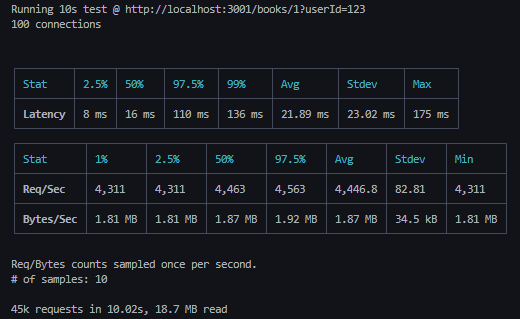
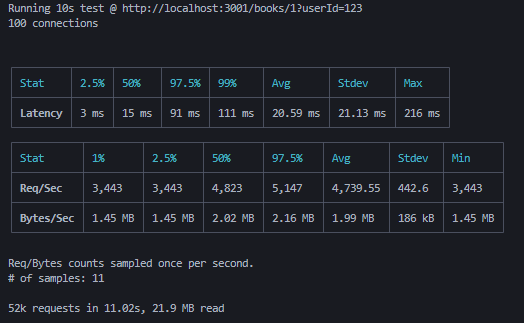
Performance improvements

diff --git a/src/trie.ts b/src/trie.ts
@@ -1,5 +1,5 @@
 type TrieNode<T> = {
-    children: Map<string, TrieNode<T>>;
+    children: Record<string, TrieNode<T>>;
     paramChild?: TrieNode<T>; // for :param
     wildcardChild?: TrieNode<T>; // for *
     paramName?: string;
@@ -11,29 +11,46 @@ export type RouteTrie<T> = {
     insert: (path: string, value: T) => void;
 };
 
+function quickSplit(path: string): string[] {
+    const out = [];
+    let start = 0;
+    for (let i = 0; i < path.length; i++) {
+        if (path[i] === "/") {
+            if (i > start) {
+                out.push(path.slice(start, i));
+            }
+            start = i + 1;
+        }
+    }
+    if (start < path.length) {
+        out.push(path.slice(start));
+    }
+    return out;
+}
+
 export function createRouteTrie<T>(name: string): RouteTrie<T> {
-    const root: TrieNode<T> = { children: new Map() };
+    const root: TrieNode<T> = { children: {} };
 
     function insert(path: string, value: T) {
-        const segments = path.split("/").filter(Boolean);
+        const segments = quickSplit(path);
         let node = root;
 
         for (const segment of segments) {
             if (segment === "*") {
                 if (!node.wildcardChild) {
-                    node.wildcardChild = { children: new Map() };
+                    node.wildcardChild = { children: {} };
                 }
                 node = node.wildcardChild!;
             } else if (segment.startsWith(":")) {
                 if (!node.paramChild) {
-                    node.paramChild = { children: new Map(), paramName: segment.slice(1) };
+                    node.paramChild = { children: {}, paramName: segment.slice(1) };
                 }
                 node = node.paramChild;
             } else {
-                if (!node.children.has(segment)) {
-                    node.children.set(segment, { children: new Map() });
+                if (!node.children[segment]) {
+                    node.children[segment] = { children: {} };
                 }
-                node = node.children.get(segment)!;
+                node = node.children[segment];
             }
         }
         if (node.value !== undefined) {
@@ -42,50 +59,54 @@ export function createRouteTrie<T>(name: string): RouteTrie<T> {
         node.value = value;
     }
 
-    function find(path: string): { value: T; params: Record<string, string> } | undefined {
-        const segments = path.split("/").filter(Boolean);
-        const params: Record<string, string> = {};
-
-        function search(
-            node: TrieNode<T>,
-            idx: number,
-        ): { node: TrieNode<T>; params: Record<string, string> } | undefined {
-            if (idx === segments.length) {
-                if (node.value !== undefined) {
-                    return { node, params: { ...params } };
-                }
-                return undefined;
+    function search(
+        node: TrieNode<T>,
+        idx: number,
+        segments: string[],
+        params: Record<string, string> = {},
+    ): { node: TrieNode<T>; params: Record<string, string> } | undefined {
+        if (idx === segments.length) {
+            if (node.value !== undefined) {
+                return { node, params };
             }
-            const segment = segments[idx];
-
-            // Exact match first
-            if (node.children.has(segment)) {
-                const result = search(node.children.get(segment)!, idx + 1);
-                if (result) {
-                    return result;
-                }
-            }
-
-            // Param match
-            if (node.paramChild) {
-                params[node.paramChild.paramName!] = segment;
-                const result = search(node.paramChild, idx + 1);
-                if (result) return result;
-                delete params[node.paramChild.paramName!]; // backtrack
-            }
-
-            // Wildcard match (matches the rest, attaches to *)
-            if (node.wildcardChild) {
-                params["*"] = segments.slice(idx).join("/");
-                if (node.wildcardChild.value !== undefined) {
-                    return { node: node.wildcardChild, params: { ...params } };
-                }
-            }
-
             return undefined;
         }
+        const segment = segments[idx];
 
-        const found = search(root, 0);
+        // Exact match first
+        if (node.children[segment]) {
+            const result = search(node.children[segment], idx + 1, segments, params);
+            if (result) {
+                return result;
+            }
+        }
+
+        // Param match
+        if (node.paramChild) {
+            params[node.paramChild.paramName!] = segment;
+            const result = search(node.paramChild, idx + 1, segments, params);
+            if (result) {
+                return result;
+            }
+            delete params[node.paramChild.paramName!]; // backtrack
+        }
+
+        // Wildcard match (matches the rest, attaches to *)
+        if (node.wildcardChild) {
+            params["*"] = segments.slice(idx).join("/");
+            if (node.wildcardChild.value !== undefined) {
+                return { node: node.wildcardChild, params };
+            }
+        }
+
+        return undefined;
+    }
+
+    function find(path: string): { value: T; params: Record<string, string> } | undefined {
+        const segments = quickSplit(path);
+        const params: Record<string, string> = {};
+
+        const found = search(root, 0, segments, params);
         if (found) {
             return { value: found.node.value!, params: found.params };
         }

diff --git a/src/handlers/__tests__/logger.handler.test.ts b/src/handlers/__tests__/logger.handler.test.ts
@@ -1,9 +1,16 @@
 import { configureLogger, logRequest, logResponse } from "../logger.handler";
+import { log } from "../../utils/logger.utils";
+
+jest.mock("../../utils/logger.utils", () => ({
+    log: {
+        info: jest.fn(),
+    },
+}));
 
 describe("loggerHandler", () => {
     describe("logRequest", () => {
         it("should log a request", () => {
-            const logSpy = jest.spyOn(console, "log");
+            const logSpy = jest.spyOn(log, "info");
             const request = {
                 path: "test",
                 headers: { "content-type": "application/json" },
@@ -26,7 +33,7 @@ describe("loggerHandler", () => {
                 cookies: { session: "123" },
                 method: "GET",
             };
-            const logSpy = jest.spyOn(console, "log");
+            const logSpy = jest.spyOn(log, "info");
             configureLogger({ enableRequestLogging: false });
             logRequest("test", request);
             expect(logSpy).not.toHaveBeenCalled();
@@ -36,7 +43,7 @@ describe("loggerHandler", () => {
     describe("logResponse", () => {
         it("should log a response", () => {
             const response = { status: 200, body: { message: "big success!" } };
-            const logSpy = jest.spyOn(console, "log");
+            const logSpy = jest.spyOn(log, "info");
             configureLogger({ enableResponseLogging: true });
             logResponse("test", response);
             expect(logSpy).toHaveBeenCalledWith("RESPONSE: test", response);
@@ -44,7 +51,7 @@ describe("loggerHandler", () => {
 
         it("should not log a response if logging is disabled", () => {
             const response = { status: 200, body: { message: "big success!" } };
-            const logSpy = jest.spyOn(console, "log");
+            const logSpy = jest.spyOn(log, "info");
             configureLogger({ enableResponseLogging: false });
             logResponse("test", response);
             expect(logSpy).not.toHaveBeenCalled();

diff --git a/src/handlers/error.handler.ts b/src/handlers/error.handler.ts
@@ -4,12 +4,10 @@ import { ErrorHandler } from "../types/error-handler.type";
 import { Options } from "../types/options.type";
 import { Response } from "../types/response.type";
 
-const errorHandlerConfig: { errorHandler: ErrorHandler | undefined } = {
-    errorHandler: undefined,
-};
+let errorHandlerFn: ErrorHandler | undefined = undefined;
 
 export function configureErrorHandler(options: Options) {
-    errorHandlerConfig.errorHandler = options.errorHandler;
+    errorHandlerFn = options.errorHandler ?? undefined;
 }
 
 export const defaultErrorHandler: ErrorHandler = (err: any | Error): Response => {
@@ -34,8 +32,8 @@ export const defaultErrorHandler: ErrorHandler = (err: any | Error): Response =>
 };
 
 export function errorHandler(err: any | Error): Response {
-    if (errorHandlerConfig.errorHandler) {
-        return errorHandlerConfig.errorHandler(err);
+    if (errorHandlerFn) {
+        return errorHandlerFn(err);
     }
 
     return defaultErrorHandler(err);

diff --git a/example/express-bookstore/bookstore.app.ts b/example/express-bookstore/bookstore.app.ts
@@ -3,33 +3,22 @@ import bookRoutes from "./routes/book.routes";
 
 const app = express();
 
-// Middleware for JSON parsing
 app.use(express.json());
 
-// Error handler
 function errorHandler(err: Error, req: Request, res: Response, next: NextFunction) {
     console.log("Error!", err);
     res.status(500).json({ message: "Internal server error" });
 }
 
-// Logging middleware
 function loggingFn(req: Request, res: Response, next: NextFunction) {
-    console.log("Path:", req.path);
-    console.log("Object:", {
-        method: req.method,
-        query: req.query,
-        params: req.params,
-        body: req.body,
-    });
+    console.log(`Path: ${req.path}`, req.body);
     next();
 }
 
 app.use(loggingFn);
 
-// Register routes
 app.use("/", bookRoutes);
 
-// Error handling middleware (must be last)
 app.use(errorHandler);
 
 app.listen(3001, () => {

diff --git a/src/handlers/logger.handler.ts b/src/handlers/logger.handler.ts
@@ -2,17 +2,18 @@ import { LoggerFn } from "../types/logger-fn.type";
 import { Options } from "../types/options.type";
 import { Request } from "../types/request.type";
 import { Response } from "../types/response.type";
+import { log } from "../utils/logger.utils";
 
 const loggerConfig = {
     enableRequestLogging: false,
     enableResponseLogging: false,
-    loggingFn: console.log as LoggerFn,
+    loggingFn: log.info as LoggerFn,
 };
 
 export function configureLogger(options: Options) {
     loggerConfig.enableRequestLogging = options.enableRequestLogging ?? false;
     loggerConfig.enableResponseLogging = options.enableResponseLogging ?? false;
-    loggerConfig.loggingFn = options.loggingFn ?? console.log;
+    loggerConfig.loggingFn = options.loggingFn ?? log.info;
 }
 
 export function logRequest(path: string, request: Partial<Request>) {

diff --git a/src/utils/logger.utils.ts b/src/utils/logger.utils.ts
@@ -1,0 +1,11 @@
+import pino from "pino";
+const logger = pino();
+
+export const log = {
+    info: (message: string, obj: any) => logger.info(obj, message),
+    error: (message: string, obj: any) => logger.error(obj, message),
+    warn: (message: string, obj: any) => logger.warn(obj, message),
+    debug: (message: string, obj: any) => logger.debug(obj, message),
+    trace: (message: string, obj: any) => logger.trace(obj, message),
+    fatal: (message: string, obj: any) => logger.fatal(obj, message),
+};

diff --git a/example/valita-bookstore/bookstore.app.ts b/example/valita-bookstore/bookstore.app.ts
@@ -11,18 +11,10 @@ function errorHandler(err: Error): Response {
     };
 }
 
-function loggingFn(path: string, obj: Partial<Response | Request>) {
-    console.log("Path:", path);
-    console.log("Object:", {
-        ...obj,
-        headers: undefined,
-    });
-}
 const server = createServer({
     errorHandler,
     enableRequestLogging: true,
-    enableResponseLogging: true,
-    loggingFn,
+    enableResponseLogging: false,
 });
 
 server.listen(3000, () => {

diff --git a/index.ts b/index.ts
@@ -4,6 +4,7 @@ export { createLambda } from "./src/lambda";
 export { ValidationError } from "./src/constants/validation-error";
 export { NoRouteError } from "./src/constants/no-route-error";
 export { defaultErrorHandler } from "./src/handlers/error.handler";
+export { log } from "./src/utils/logger.utils";
 
 export type { Request } from "./src/types/request.type";
 export type { Response } from "./src/types/response.type";
